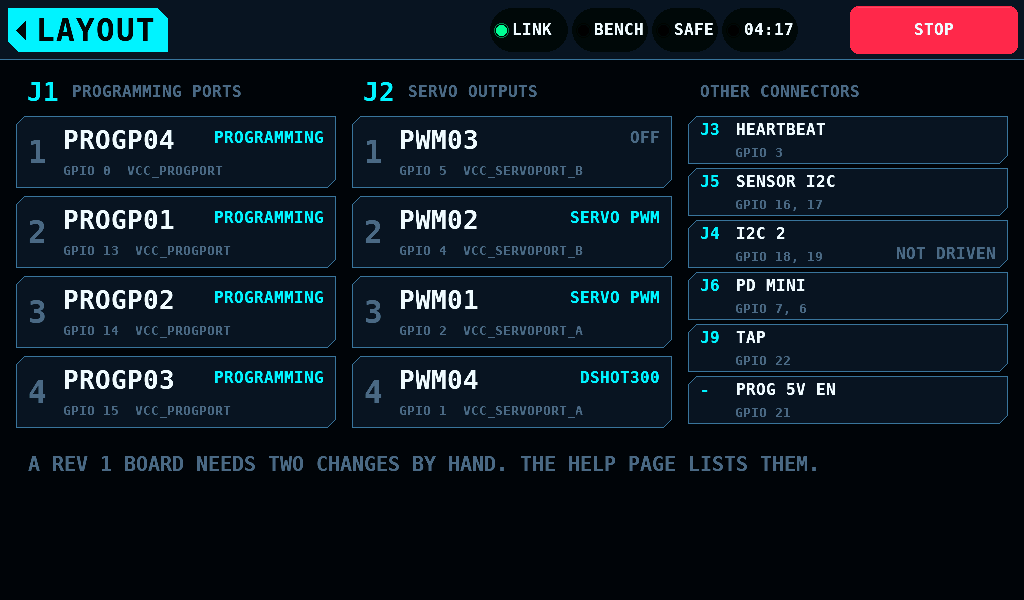
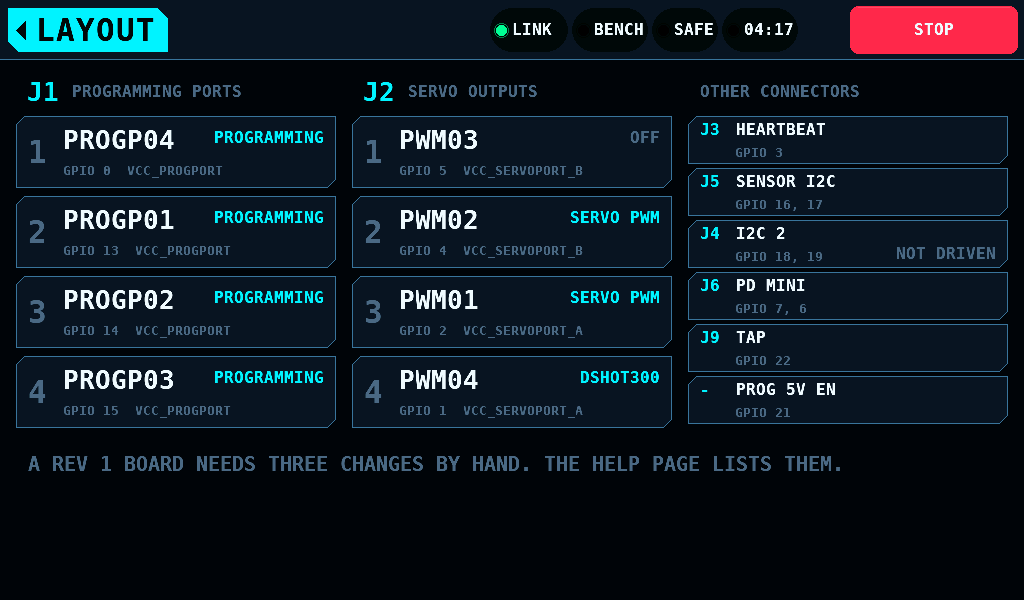
Say three rev 1 changes on the carrier's layout line

Changed region(s): [[0.2812, 0.75, 0.8125, 0.81]]

diff --git a/help/content/de/layout.md b/help/content/de/layout.md
@@ -29,7 +29,7 @@ J3 HEARTBEAT auf GPIO 3, J5 SENSOR I2C auf GPIO 16 und 17, J4 I2C 2 auf GPIO 18 
 
 ## Boards Rev 1
 
-Die Zeile unter den Spalten lautet `EIN BOARD REV 1 BRAUCHT ZWEI ÄNDERUNGEN VON HAND. DIE HILFE NENNT SIE.` Die zwei Änderungen stehen in [Carrier: Nacharbeit Rev 1](https://github.com/subtilitas/rcbench/wiki/Carrier-de#nacharbeit-rev-1): PROGP03 wandert von GPIO 26 auf GPIO 15, und ein Pull-down hält die 5V der Programmierports aus, solange GPIO 21 nicht getrieben ist. Eine dritte Änderung, eine Z-Diode 5.6V 1W vom Ausgang von M7 nach GND gegen die Ausfälle durch ein bremsendes Servo, steht in derselben Tabelle; die Firmware verlässt sich nicht darauf. Rev 2 trägt die ersten zwei im Kupfer; die dritte ist eine offene Designfrage.
+Die Zeile unter den Spalten lautet `EIN BOARD REV 1 BRAUCHT DREI ÄNDERUNGEN VON HAND. DIE HILFE NENNT SIE.` Die drei Änderungen stehen in [Carrier: Nacharbeit Rev 1](https://github.com/subtilitas/rcbench/wiki/Carrier-de#nacharbeit-rev-1): PROGP03 wandert von GPIO 26 auf GPIO 15; ein Pull-down hält die 5V der Programmierports aus, solange GPIO 21 nicht getrieben ist; und eine Z-Diode 5.6V 1W vom Ausgang von M7 nach GND verhindert die Ausfälle durch ein bremsendes Servo. Die Firmware verlässt sich nicht auf die dritte. Rev 2 trägt die ersten zwei im Kupfer; die dritte ist eine offene Designfrage.
 
 ## Verwandte Seiten
 

diff --git a/help/content/en/layout.md b/help/content/en/layout.md
@@ -29,7 +29,7 @@ J3 HEARTBEAT on GPIO 3, J5 SENSOR I2C on GPIO 16 and 17, J4 I2C 2 on GPIO 18 and
 
 ## Rev 1 boards
 
-The line under the columns reads `A REV 1 BOARD NEEDS TWO CHANGES BY HAND. THE HELP PAGE LISTS THEM.` The two changes are in [Carrier: Rev 1 rework](https://github.com/subtilitas/rcbench/wiki/Carrier#rev-1-rework): PROGP03 moves from GPIO 26 to GPIO 15, and a pull-down holds the programming ports' 5V off while GPIO 21 is not driven. A third change, a 5.6V 1W zener from M7's output to GND against the dropouts a braking servo causes, is in the same table; the firmware does not rely on it. Rev 2 carries the first two in copper; the third is an open design point.
+The line under the columns reads `A REV 1 BOARD NEEDS THREE CHANGES BY HAND. THE HELP PAGE LISTS THEM.` The three changes are in [Carrier: Rev 1 rework](https://github.com/subtilitas/rcbench/wiki/Carrier#rev-1-rework): PROGP03 moves from GPIO 26 to GPIO 15; a pull-down holds the programming ports' 5V off while GPIO 21 is not driven; and a 5.6V 1W zener from M7's output to GND stops the dropouts a braking servo causes. The firmware does not rely on the third. Rev 2 carries the first two in copper; the third is an open design point.
 
 ## Related pages
 

diff --git a/docs/Screens-de.md b/docs/Screens-de.md
@@ -6823,7 +6823,7 @@ treibt nichts und nimmt keinen Tipp.
 | `WEITERE STECKER` | J3 HEARTBEAT, J5 SENSOR I2C, J4 I2C 2 (`NICHT BETRIEBEN`), J6 PD MINI, J9 TAP, PROG 5V EN an keinem Stecker | der Name, was er trägt, sein GPIO |
 
 Die Zeile unter den Spalten lautet
-`EIN BOARD REV 1 BRAUCHT ZWEI ÄNDERUNGEN VON HAND. DIE HILFE NENNT SIE.`
+`EIN BOARD REV 1 BRAUCHT DREI ÄNDERUNGEN VON HAND. DIE HILFE NENNT SIE.`
 ([Carrier: Nacharbeit Rev 1](Carrier-de.md#nacharbeit-rev-1)).
 
 Ein Protokoll, das unter OUTPUTS gebunden oder gelöst wird, und ein

diff --git a/docs/Screens.md b/docs/Screens.md
@@ -6222,7 +6222,7 @@ drives nothing and takes no tap.
 | `OTHER CONNECTORS` | J3 HEARTBEAT, J5 SENSOR I2C, J4 I2C 2 (`NOT DRIVEN`), J6 PD MINI, J9 TAP, PROG 5V EN on no connector | the name, what it carries, its GPIO |
 
 The line under the columns reads
-`A REV 1 BOARD NEEDS TWO CHANGES BY HAND. THE HELP PAGE LISTS THEM.`
+`A REV 1 BOARD NEEDS THREE CHANGES BY HAND. THE HELP PAGE LISTS THEM.`
 ([Carrier: Rev 1 rework](Carrier.md#rev-1-rework)).
 
 A protocol bound or let go on OUTPUTS, and a change of board, repaint the
